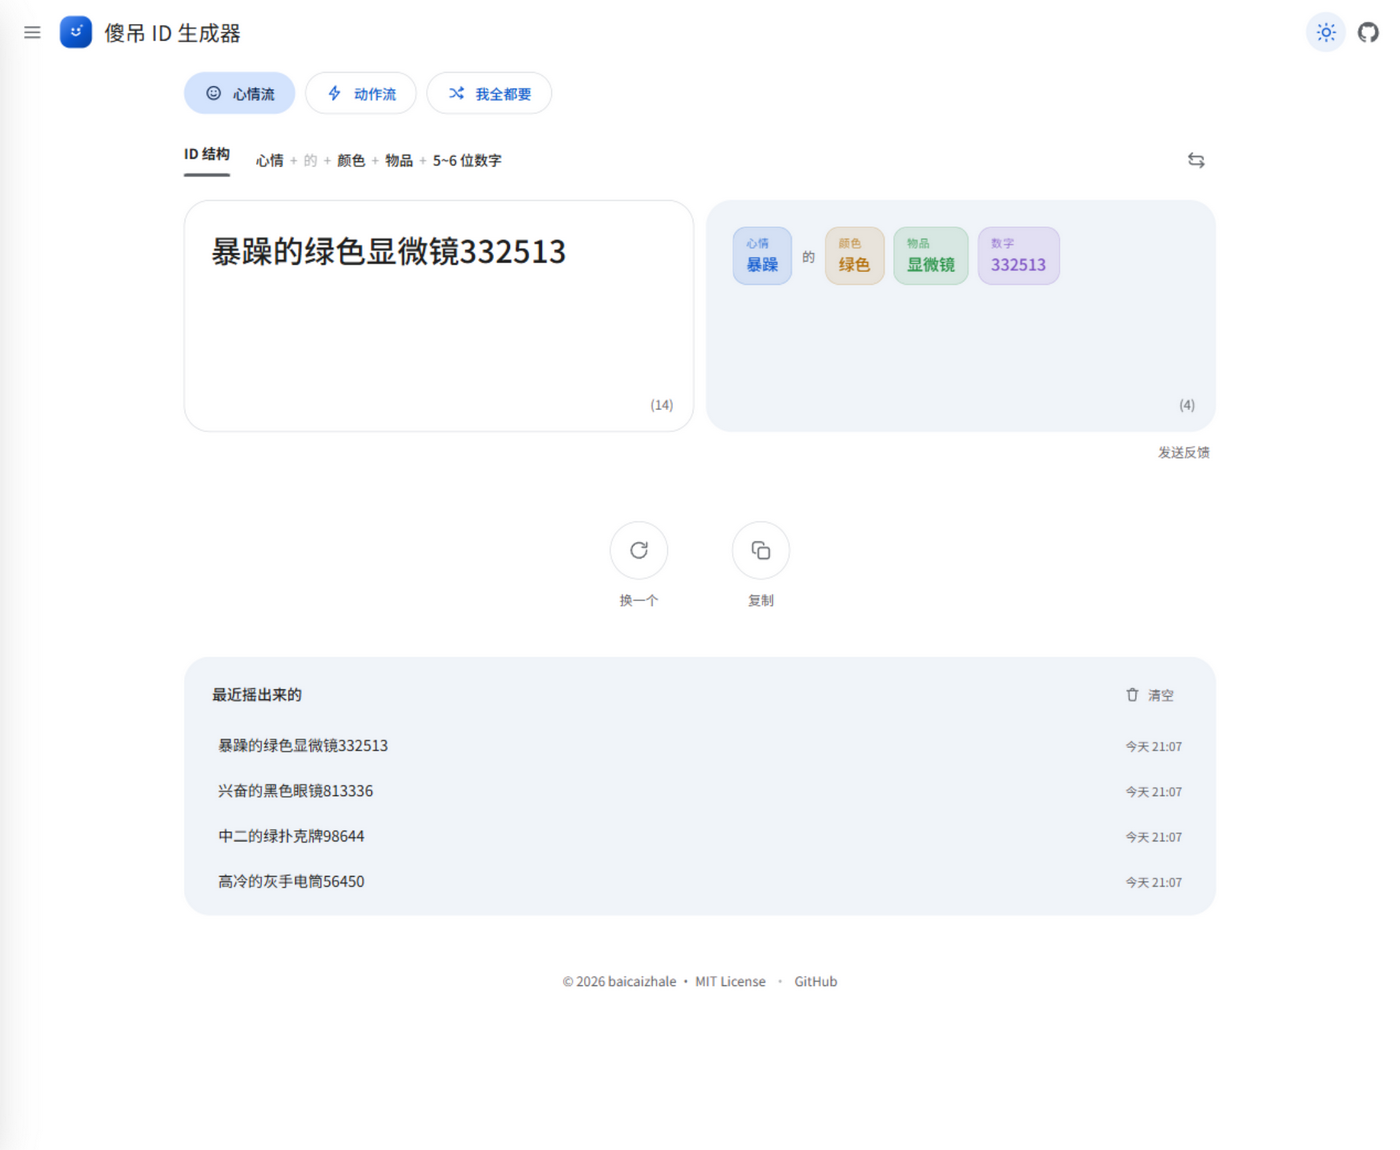
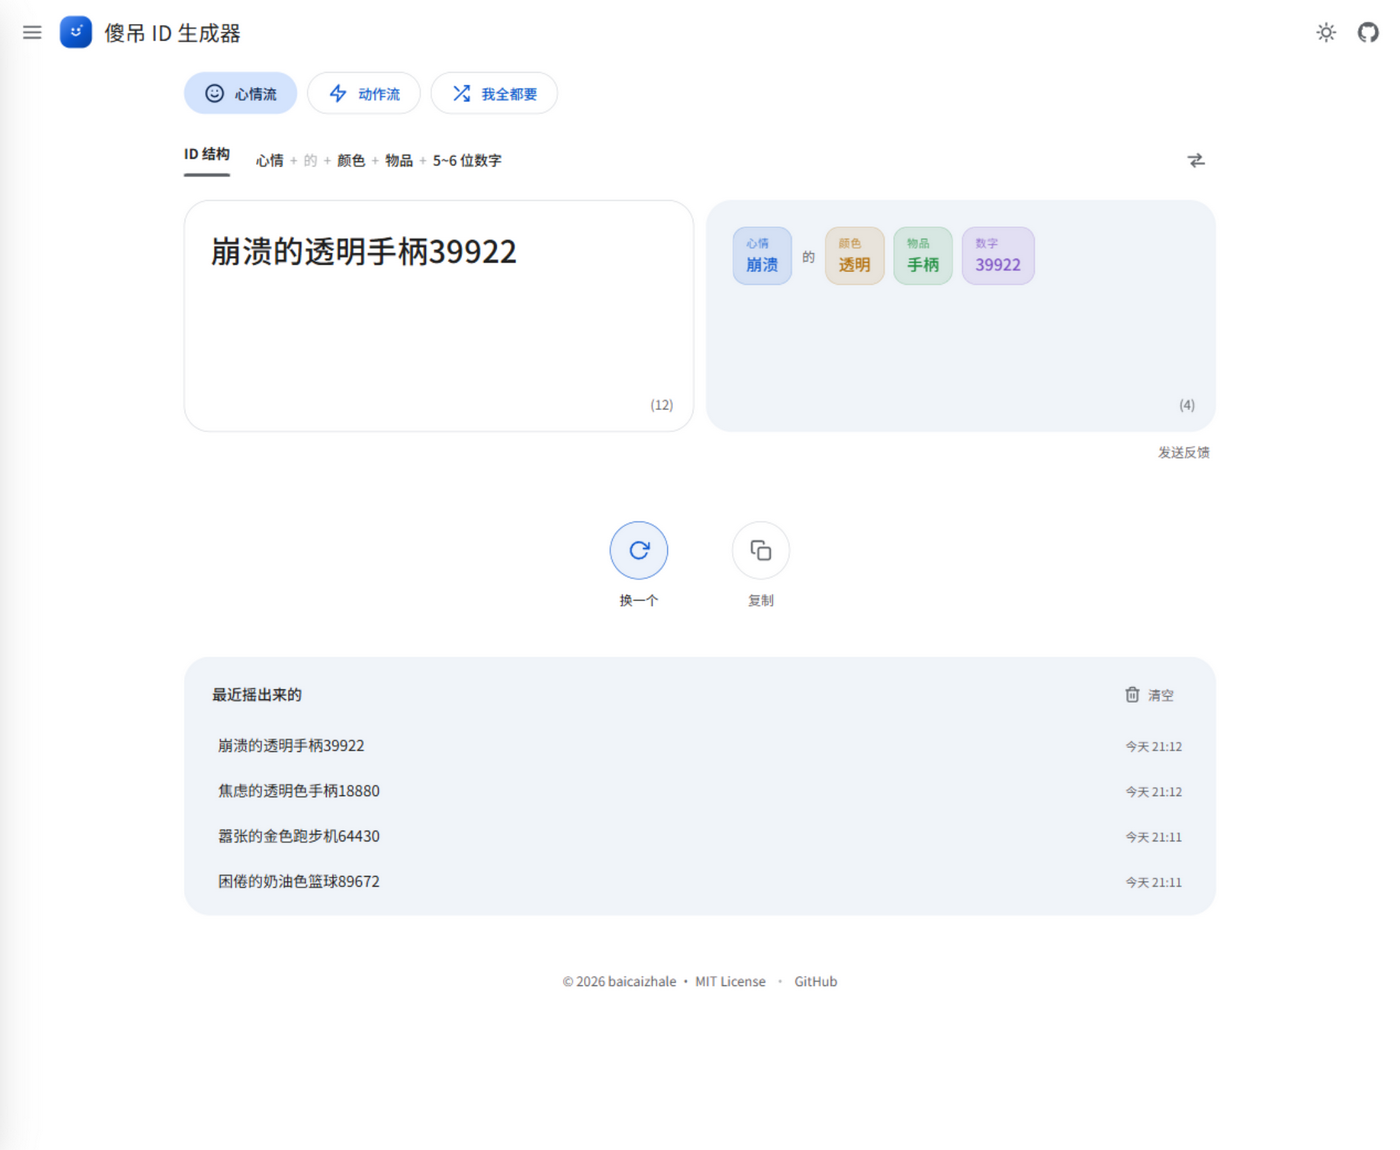
docs: 删 FAQ，新增 CONTRIBUTING.md 欢迎贡献词库，预览图同步新图标

diff --git a/CONTRIBUTING.md b/CONTRIBUTING.md
@@ -1,0 +1,72 @@
+# 贡献指南
+
+首先：**这个项目最需要的贡献就是词**。词库越大，摇出来的 ID 越好笑——所以哪怕你只想贡献一个词，也欢迎开 issue 或提 PR，别有心理负担。
+
+- 想加词？看下面的[加词指南](#加词指南)，三分钟就能提一个 PR。
+- 发现生成的 ID 有冒犯性组合？开个 [issue](https://github.com/baicaizhale/Stupid-ID-Gen/issues/new) 告诉我们，会尽快下掉相关词条。
+- 想改界面 / 逻辑？也欢迎，但请先开 issue 聊一下再动手。
+
+## 加词指南
+
+词库全部在 [`app.js`](app.js) 顶部的 `WORDS` 对象里，一行一个字符串，加词就是往对应的数组里加一项：
+
+```js
+const WORDS = {
+  moods:   [ /* 心情：冷静、狂喜、精神内耗…… */ ],
+  colors:  [ /* 颜色：白、天蓝、焦糖……（「色」字不用写，会随机加上） */ ],
+  items:   [ /* 物品：键盘、微波炉、筋膜枪…… */ ],
+  actions: [ /* 不及物动作：狂笑、摸鱼、翻白眼…… */ ],
+  nouns:   [ /* 名词（主语）：蛇、蛇将、卡皮巴拉…… */ ],
+  verbs:   [ /* 及物动词：写、炖、手搓…… */ ],
+  objects: [ /* 名词（宾语）：散文、泡面、年终奖…… */ ],
+};
+```
+
+### 词性对照表
+
+| 数组 | 格式一（心情流） | 格式二（动作流） | 放什么 | 例子 |
+| --- | :-: | :-: | --- | --- |
+| `moods` | 心情 | — | 形容状态的词，两到四个字都行 | `冷静`、`精神内耗`、`假装镇定` |
+| `colors` | 颜色 | — | 颜色词，**不要带「色」字**（会随机出现） | `白`、`天蓝`、`焦糖` |
+| `items` | 物品 | — | 生活中摸得到的物件 | `键盘`、`泡脚桶`、`扫地机器人` |
+| `actions` | — | 不及物动作 | 后面**不能**直接带宾语的动作 | `狂笑`、`摸鱼`、`碎碎念` |
+| `nouns` | — | 名词 | 做主语的名词，人 / 动物 / 拟人都行 | `蛇`、`蛇将`、`食堂阿姨` |
+| `verbs` | — | 及物动词 | 后面**能**带宾语的动作 | `写`、`手搓`、`格式化` |
+| `objects` | — | 名词 | 做宾语的名词，最好是能被「盘」的东西 | `散文`、`泡面`、`红头文件` |
+
+判断不及物 / 及物的土办法：把词套进 `___的蛇将___`——前面填动作、后面填动词，读着不别扭就对了。比如「狂笑**的**蛇将**写**散文」通顺，「狂笑的蛇将**蹲守**散文」就有点怪，但怪得恰到好处也行——这个项目的审美本来就是歪的。
+
+### 两条硬规矩
+
+1. **必须纯中文**。`BUG`、`PPT`、`U盘` 这类夹字母的词条一律不收（已经用 `八阿哥`、`幻灯片`、`优盘` 替代过一轮了）。数字只出现在格式一结尾的随机数里。
+2. **不收针对真实个人或群体的侮辱性词条**。「傻吊」是这个项目的自嘲式玩梗，搞笑的边界是无厘头，不是伤害；同样不收涉黄、涉政、地域攻击类词条。
+
+### 提交前自检
+
+加完词跑一下这段脚本，确认没混进非中文词条：
+
+```bash
+node -e "
+const src = require('fs').readFileSync('app.js','utf8');
+const block = src.slice(src.indexOf('const WORDS'), src.indexOf('const FORMATS'));
+const bad = [...block.matchAll(/'([^']*)'/g)].map(m => m[1]).filter(w => /[A-Za-z0-9]/.test(w));
+console.log(bad.length ? '混进了非中文词条：' + bad.join('、') : '词库干净，全是中文');
+"
+```
+
+然后在本地摇个几十次（`npx serve .` 后打开页面，或直接双击 `index.html`），确认新词拼出来的 ID 读着顺眼。
+
+### PR 建议
+
+- 一个 PR 只做一件事：加一批词、或改一个逻辑，不要混在一起；
+- 加词请在 PR 标题里写清楚词库，例如 `词库：moods 新增 8 个状态`；
+- 没有版本号要改、没有 changelog 要写，维护者合并后会统一发布。
+
+## 不想加词，但想帮忙？
+
+- 去 [issues](https://github.com/baicaizhale/Stupid-ID-Gen/issues) 里看看有没有人提的词你觉得好笑，点个 👍 就是在投票；
+- 把项目甩给你的朋友，摇出一个足够傻的 ID 截图发出来，是对这个项目最大的肯定。
+
+## License
+
+提交即表示你同意自己的贡献按 [MIT License](LICENSE) 发布。

diff --git a/README.md b/README.md
@@ -129,41 +129,14 @@ npm run deploy                # = node scripts/build.mjs && wrangler deploy
 
 ## 词库与贡献
 
-想把谁的 ID 写进词库？欢迎开 [issue](https://github.com/baicaizhale/Stupid-ID-Gen/issues/new) 或者直接提 PR。
-
-加词的规矩只有两条：
-
-1. **必须是纯中文词条**——`BUG`、`PPT`、`U盘` 这类夹字母的词条很突兀（已换成 `八阿哥`、`幻灯片`、`优盘`）；
-2. **词性要对上**：`actions` 放不及物动作，`nouns` 放名词（「蛇将」这种算名词），`verbs` 放能带宾语的及物动词。
-
-改完可以用下面这段脚本自检一遍：
-
-```bash
-node -e "
-const src = require('fs').readFileSync('app.js','utf8');
-const block = src.slice(src.indexOf('const WORDS'), src.indexOf('const FORMATS'));
-const bad = [...block.matchAll(/'([^']*)'/g)].map(m => m[1]).filter(w => /[A-Za-z0-9]/.test(w));
-console.log(bad.length ? '混进了非中文词条：' + bad.join('、') : '词库干净，全是中文');
-"
-```
+最欢迎的贡献就是**加词**——词库越大，摇出来的越好笑。怎么加、有什么规矩，看 [CONTRIBUTING.md](CONTRIBUTING.md)。
 
 ## 设计说明
 
 - 配色直接取自 Google 翻译深色模式的截图取样：背景 `#131314`、描边 `#444746`、选中胶囊 `#0842a0` / `#d3e3fd`、填充卡片 `#1e1f20`、浅蓝强调 `#a8c7fa`；
 - 字体 [Noto Sans](https://fonts.google.com/noto/specimen/Noto+Sans) + Noto Sans SC，来自 Google Fonts，系统字体兜底；
-- 左上角是手写的 SVG 笑脸方块（[`docs/logo.svg`](docs/logo.svg)），图标的描边风格统一为 1.7px 圆头；
+- 左上角是手写的 SVG 笑脸方块（[`docs/logo.svg`](docs/logo.svg)），图标的描边风格统一为 2px 圆头；
 - 拆解里的每个片段有自己的颜色，心情是蓝、颜色是橙、物品是绿、数字是紫。
-
-## FAQ
-
-**为什么不让我自定义词库？**
-设计目标就是「硬编码 + 随机」，没有自定义入口是特性不是缺陷。想改就直接改 `app.js` 再部署，或者提 PR 把词贡献给所有人。
-
-**数字为什么是 5~6 位？**
-最初的需求就是这么定的：`冷静的白(色)键盘39023`。
-
-**会收集数据吗？**
-不会。历史记录只存在你自己的浏览器 `localStorage` 里，清空按钮一按就没了。
 
 ## License
 
